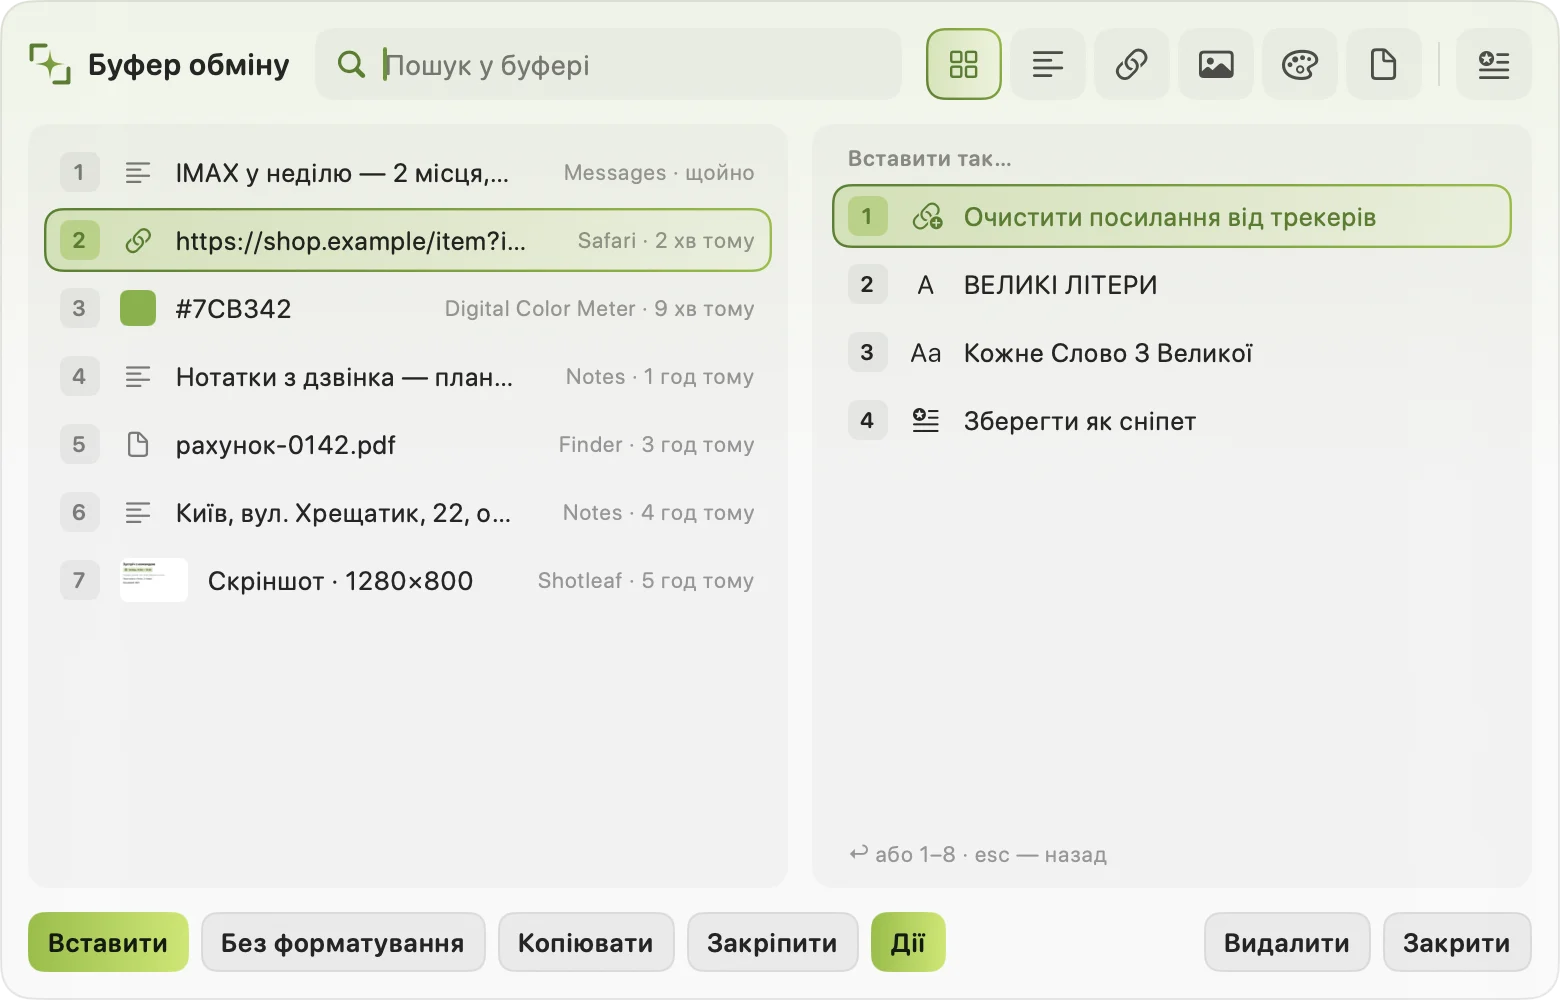
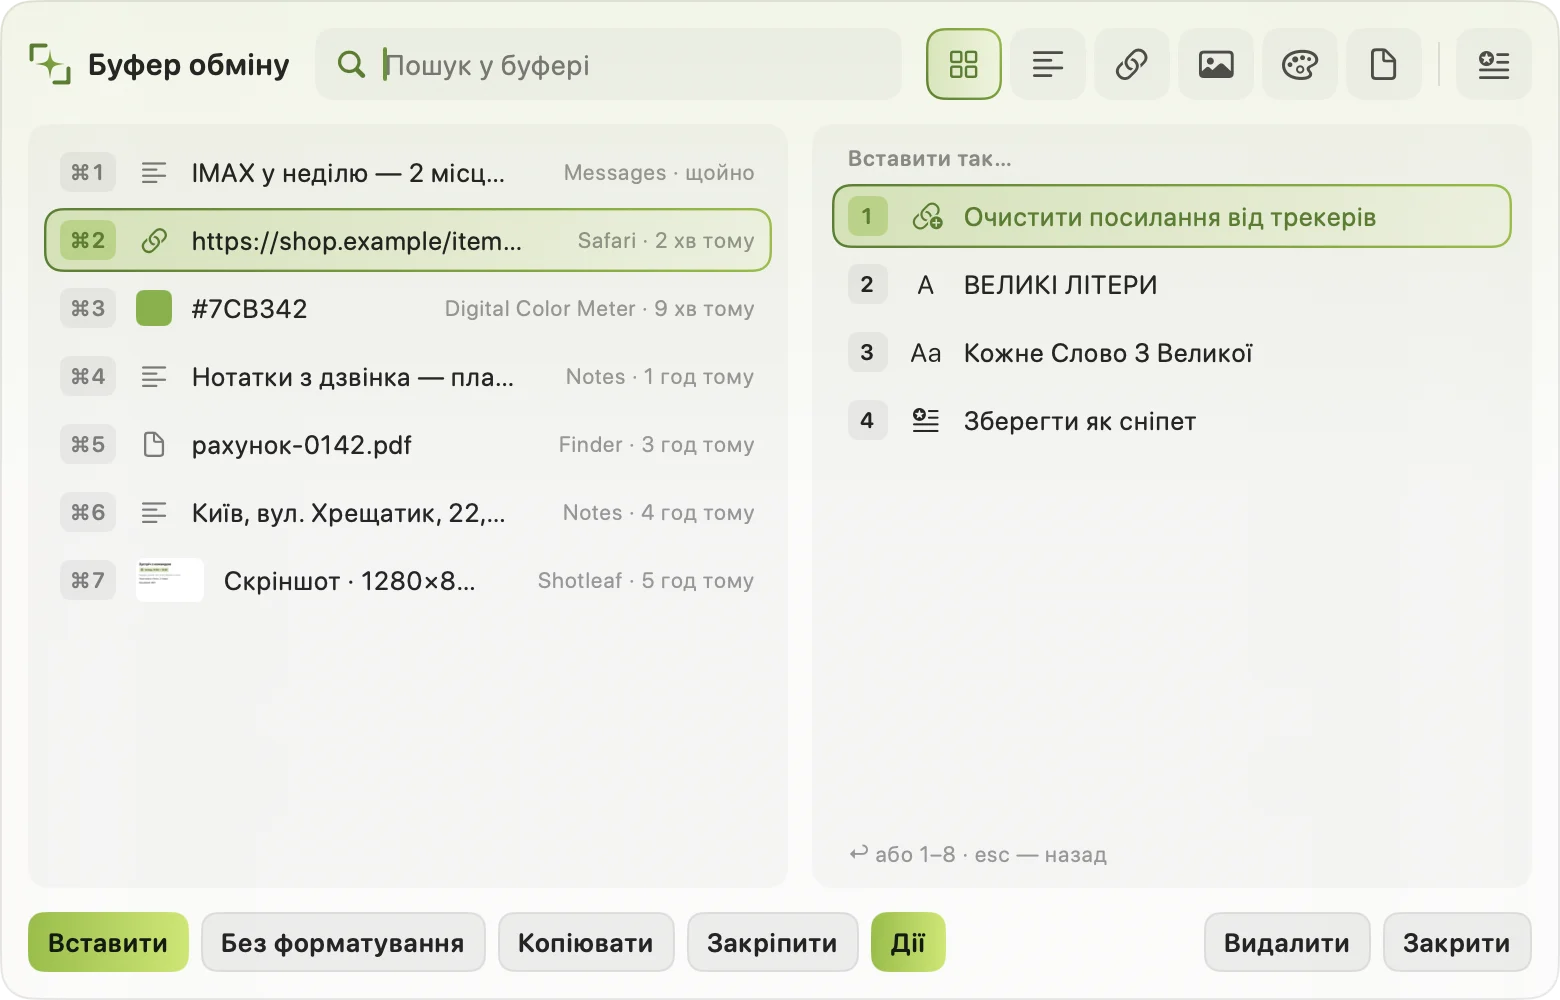
Clipboard panel: digits go into the search, ⌘1–⌘9 paste a row
A bare digit pasted a row while the search was empty, so a search couldn't
start with a number. Rows now show ⌘1–⌘9; guide text and pictures updated.

diff --git a/site/src/guide.html b/site/src/guide.html
@@ -166,7 +166,7 @@
   <figure><img data-shot="clipboard" alt="[[The clipboard panel: the history on the left, the selected entry on the right||Панель буфера: історія ліворуч, вибраний запис праворуч]]"></figure>
   <table class="keys">
     <tr><td><kbd>↩</kbd></td><td>[[paste into the app you were in||вставити в програму, де ви були]]</td></tr>
-    <tr><td><kbd>1</kbd>–<kbd>9</kbd></td><td>[[paste that row at once||одразу вставити цей рядок]]</td></tr>
+    <tr><td><kbd>⌘1</kbd>–<kbd>⌘9</kbd></td><td>[[paste that row at once (plain digits go into the search)||одразу вставити цей рядок (цифри без ⌘ ідуть у пошук)]]</td></tr>
     <tr><td><kbd>⌥↩</kbd></td><td>[[paste as plain text, without formatting||вставити без форматування]]</td></tr>
     <tr><td><kbd>⌘↩</kbd></td><td>[[only copy, don’t paste||лише скопіювати, не вставляти]]</td></tr>
     <tr><td><kbd>⌘P</kbd></td><td>[[pin: pinned entries stay when the history is cleared||закріпити: закріплене лишається, коли історію очищують]]</td></tr>

diff --git a/ShotleafKit/Sources/AppFeature/Clipboard/ClipboardPanelView.swift b/ShotleafKit/Sources/AppFeature/Clipboard/ClipboardPanelView.swift
@@ -1,7 +1,7 @@
 import SwiftUI
 
 /// The ⇧⌘V panel (history and snippets), in the screenshot window's look: name, search and type
-/// tiles on top; the list (1–9 on the first rows) and a preview on canvas
+/// tiles on top; the list (⌘1–⌘9 on the first rows) and a preview on canvas
 /// cards; actions with their keys at the bottom.
 struct ClipboardPanelView: View {
     @Bindable var model: ClipboardPanelModel
@@ -217,9 +217,9 @@ struct ClipboardPanelView: View {
     func row(_ item: ClipItem, index: Int) -> some View {
         let on = index == model.selected
         return HStack(spacing: 10) {
-            Text(index < 9 ? "\(index + 1)" : "")
+            Text(index < 9 ? "⌘\(index + 1)" : "")
                 .font(Leaf.font(11, .semibold)).monospacedDigit()
-                .frame(width: 20, height: 20)
+                .frame(width: 28, height: 20)
                 .background(RoundedRectangle(cornerRadius: 5).fill(on ? Leaf.fresh.opacity(0.45) : Color.primary.opacity(index < 9 ? 0.06 : 0)))
                 .foregroundStyle(on ? Leaf.ink : Color.primary.opacity(0.55))
             if let order = model.marked.firstIndex(of: item.id) {

diff --git a/site/uk/guide/index.html b/site/uk/guide/index.html
@@ -177,7 +177,7 @@
   <figure><img src="../../assets/guide/clipboard-uk.webp" width="1560" height="1000" loading="lazy" decoding="async" alt="Панель буфера: історія ліворуч, вибраний запис праворуч"></figure>
   <table class="keys">
     <tr><td><kbd>↩</kbd></td><td>вставити в програму, де ви були</td></tr>
-    <tr><td><kbd>1</kbd>–<kbd>9</kbd></td><td>одразу вставити цей рядок</td></tr>
+    <tr><td><kbd>⌘1</kbd>–<kbd>⌘9</kbd></td><td>одразу вставити цей рядок (цифри без ⌘ ідуть у пошук)</td></tr>
     <tr><td><kbd>⌥↩</kbd></td><td>вставити без форматування</td></tr>
     <tr><td><kbd>⌘↩</kbd></td><td>лише скопіювати, не вставляти</td></tr>
     <tr><td><kbd>⌘P</kbd></td><td>закріпити: закріплене лишається, коли історію очищують</td></tr>

diff --git a/ShotleafKit/Sources/AppFeature/Clipboard/ClipboardPanelView+Snippets.swift b/ShotleafKit/Sources/AppFeature/Clipboard/ClipboardPanelView+Snippets.swift
@@ -71,9 +71,9 @@ extension ClipboardPanelView {
     func snippetRow(_ snippet: Snippet, index: Int) -> some View {
         let on = index == model.selected
         return HStack(spacing: 10) {
-            Text(index < 9 ? "\(index + 1)" : "")
+            Text(index < 9 ? "⌘\(index + 1)" : "")
                 .font(Leaf.font(11, .semibold)).monospacedDigit()
-                .frame(width: 20, height: 20)
+                .frame(width: 28, height: 20)
                 .background(RoundedRectangle(cornerRadius: 5).fill(on ? Leaf.fresh.opacity(0.45) : Color.primary.opacity(index < 9 ? 0.06 : 0)))
                 .foregroundStyle(on ? Leaf.ink : Color.primary.opacity(0.55))
             Circle().fill(Color(nsColor: model.snippets.folder(snippet.folder).map { SnippetFolder.colors[$0.color % SnippetFolder.colors.count] } ?? .tertiaryLabelColor))

diff --git a/site/guide/index.html b/site/guide/index.html
@@ -177,7 +177,7 @@
   <figure><img src="../assets/guide/clipboard-en.webp" width="1560" height="1000" loading="lazy" decoding="async" alt="The clipboard panel: the history on the left, the selected entry on the right"></figure>
   <table class="keys">
     <tr><td><kbd>↩</kbd></td><td>paste into the app you were in</td></tr>
-    <tr><td><kbd>1</kbd>–<kbd>9</kbd></td><td>paste that row at once</td></tr>
+    <tr><td><kbd>⌘1</kbd>–<kbd>⌘9</kbd></td><td>paste that row at once (plain digits go into the search)</td></tr>
     <tr><td><kbd>⌥↩</kbd></td><td>paste as plain text, without formatting</td></tr>
     <tr><td><kbd>⌘↩</kbd></td><td>only copy, don’t paste</td></tr>
     <tr><td><kbd>⌘P</kbd></td><td>pin: pinned entries stay when the history is cleared</td></tr>

diff --git a/ShotleafKit/Sources/AppFeature/Clipboard/ClipboardPanel.swift b/ShotleafKit/Sources/AppFeature/Clipboard/ClipboardPanel.swift
@@ -233,8 +233,8 @@ final class ClipboardPanelController {
             openImage(payload)
             return true
         }
-        // 1–9 paste that row: always with ⌘, and bare while the search is empty.
-        if let n = Int(key), (1...9).contains(n), mods == .command || (mods.isEmpty && model.query.isEmpty) {
+        // ⌘1–⌘9 paste that row; bare digits are typed into the search.
+        if let n = Int(key), (1...9).contains(n), mods == .command {
             if model.showsSnippets {
                 let results = model.snippetResults
                 if results.indices.contains(n - 1) { pick(results[n - 1], .paste) }

diff --git a/CHANGELOG.md b/CHANGELOG.md
@@ -2,6 +2,7 @@
 
 ## Unreleased
 
+- Clipboard panel: ⌘1–⌘9 paste a row; a plain digit goes into the search (it used to paste a row when the search was empty, so a search couldn't start with a number).
 - Updates: a release must be signed with Shotleaf's update key, checked before the download is even opened (from this version on).
 - Snippets: your clipboard comes back as soon as the app has taken the snippet, instead of after a fixed 0.4 s (a slow app no longer pastes the old clipboard).
 - Text completion runs on the model library's current interface; the suggestions are the same.
